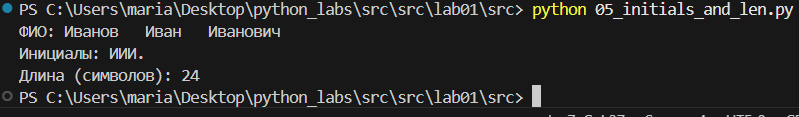
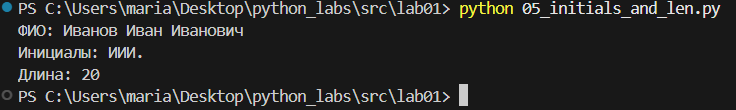
well done

diff --git a/README.md b/README.md
@@ -4,33 +4,96 @@
 
 Задание 1
 
+```python
+name = input("Имя: ")
+age = int(input("Возраст: "))
+print(f"Привет, {name}! Через год тебе будет {age + 1}.")
+```
+
 ![01_greeting](./images/lab01/ex01.png.png)
 
 
 Задание 2
+
+```python
+a = float(input("a: ").replace(",", "."))
+b = float(input("b: ").replace(",", "."))
+sum_ab = a + b
+avg_ab = sum_ab / 2
+print(f"sum={sum_ab:.2f}; avg={avg_ab:.2f}")
+```
 
 ![02_sum_avg](./images/lab01/ex02.png.png)
 
 
 Задание 3
 
+```python
+price = float(input("price: ").replace(",", "."))
+discount = float(input("discount: ").replace(",", "."))
+vat = float(input("vat: ").replace(",", "."))
+base = price * (1 - discount / 100)
+vat_amount = base * (vat / 100)
+total = base + vat_amount
+print(f"База после скидки: {base:.2f} ₽")
+print(f"НДС:               {vat_amount:.2f} ₽")
+print(f"Итого к оплате:    {total:.2f} ₽")
+```
+
 ![03_discount_vat](./images/lab01/ex03.png.png)
 
 
 Задание 4
 
+```python
+m = int(input("Минуты: "))
+hours = m // 60
+minutes = m % 60
+print(f"{hours}:{minutes:02d}")
+```
+
 ![04_minutes_to_hhmm](./images/lab01/ex04.png.png)
 
 Задание 5
 
+```python
+full_name = input("ФИО: ")
+words = full_name.strip().split()
+initials = ''.join(word[0].upper() for word in words if word)
+length = len(full_name.strip())
+print(f"Инициалы: {initials}.")
+print(f"Длина: {length}")
+```
+
 ![05_initials_and_len](./images/lab01/ex05.png.png)
 
 
-Задание 6
-
-![](.)
-
-
 Задание 7
+
+```python
+s = input()
+result = ""
+start = -1
+for i in range(len(s)):
+    if s[i].isupper():  
+        result = result + s[i]  
+        start = i  
+        break
+sec_pos = -1
+for i in range(len(s)):
+    if s[i].isdigit() and i + 1 < len(s):  
+        result = result + s[i + 1]  
+        sec_pos = i + 1  
+        break
+step = sec_pos - start
+c_pos = sec_pos + step
+while c_pos < len(s):
+    if s[c_pos] == '.':  
+        result = result + s[c_pos]  
+        break 
+    result = result + s[c_pos]  
+    c_pos = c_pos + step  
+print(result)
+```
 
 ![07_so_zvezdochkoy](./images/lab01/ex07.png.png)
